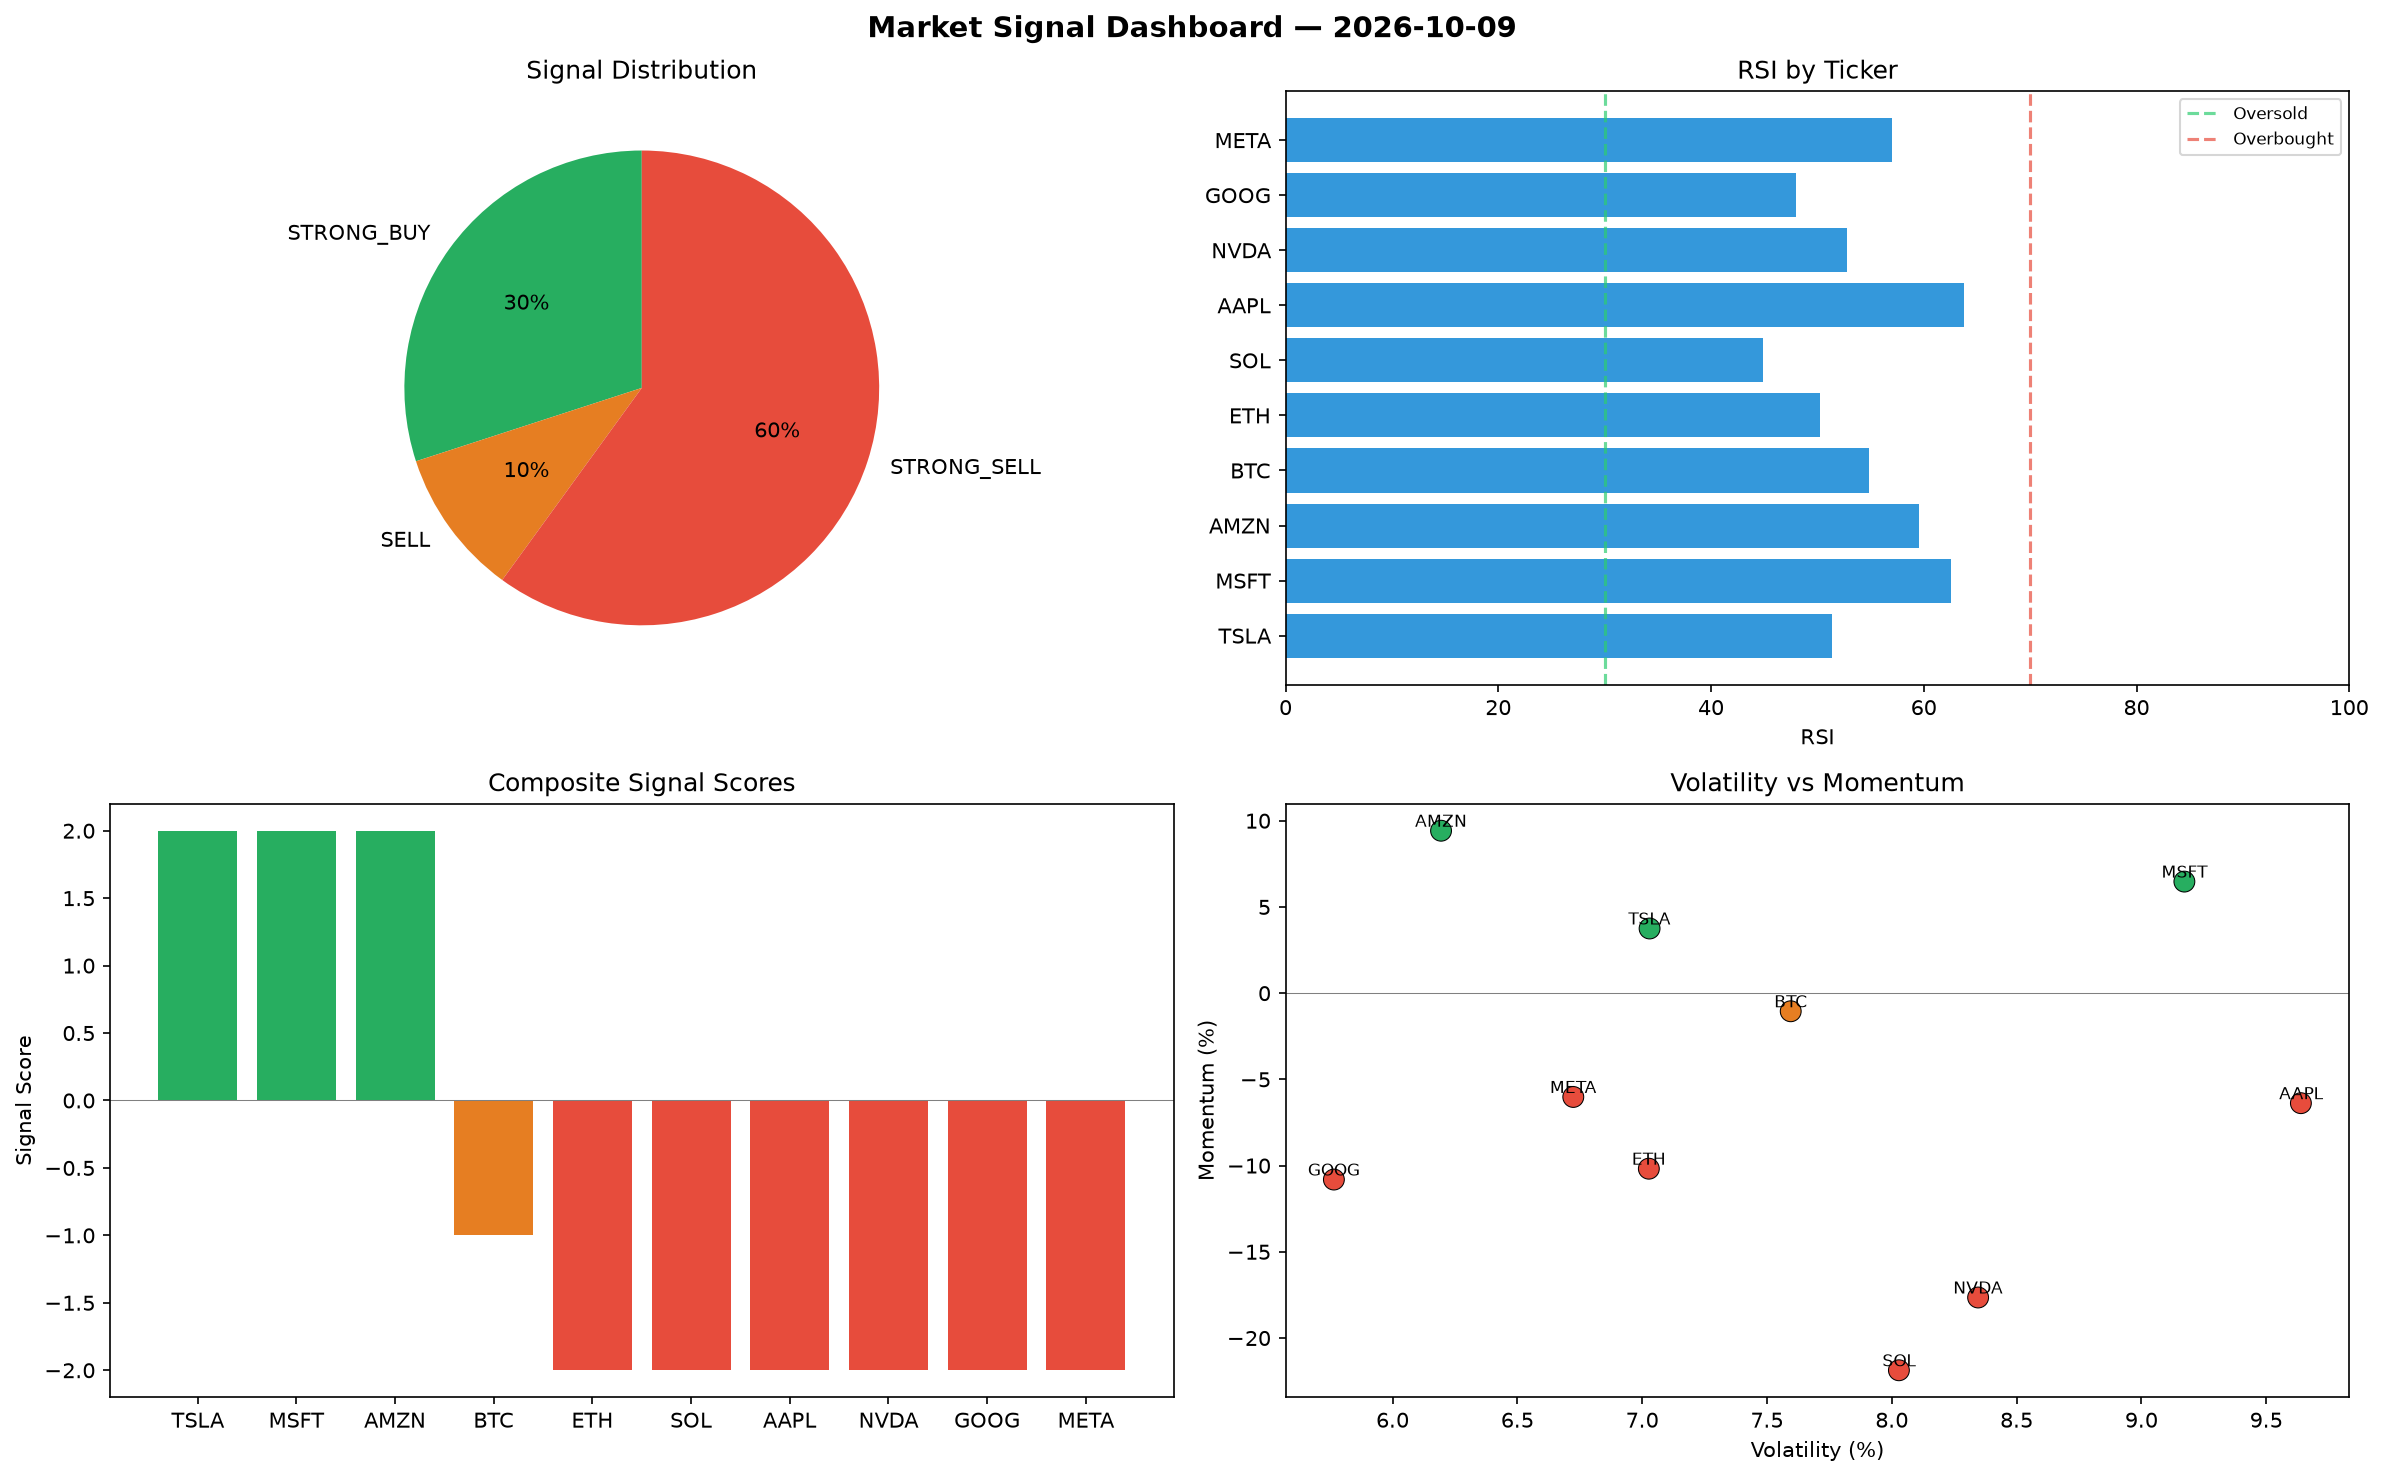
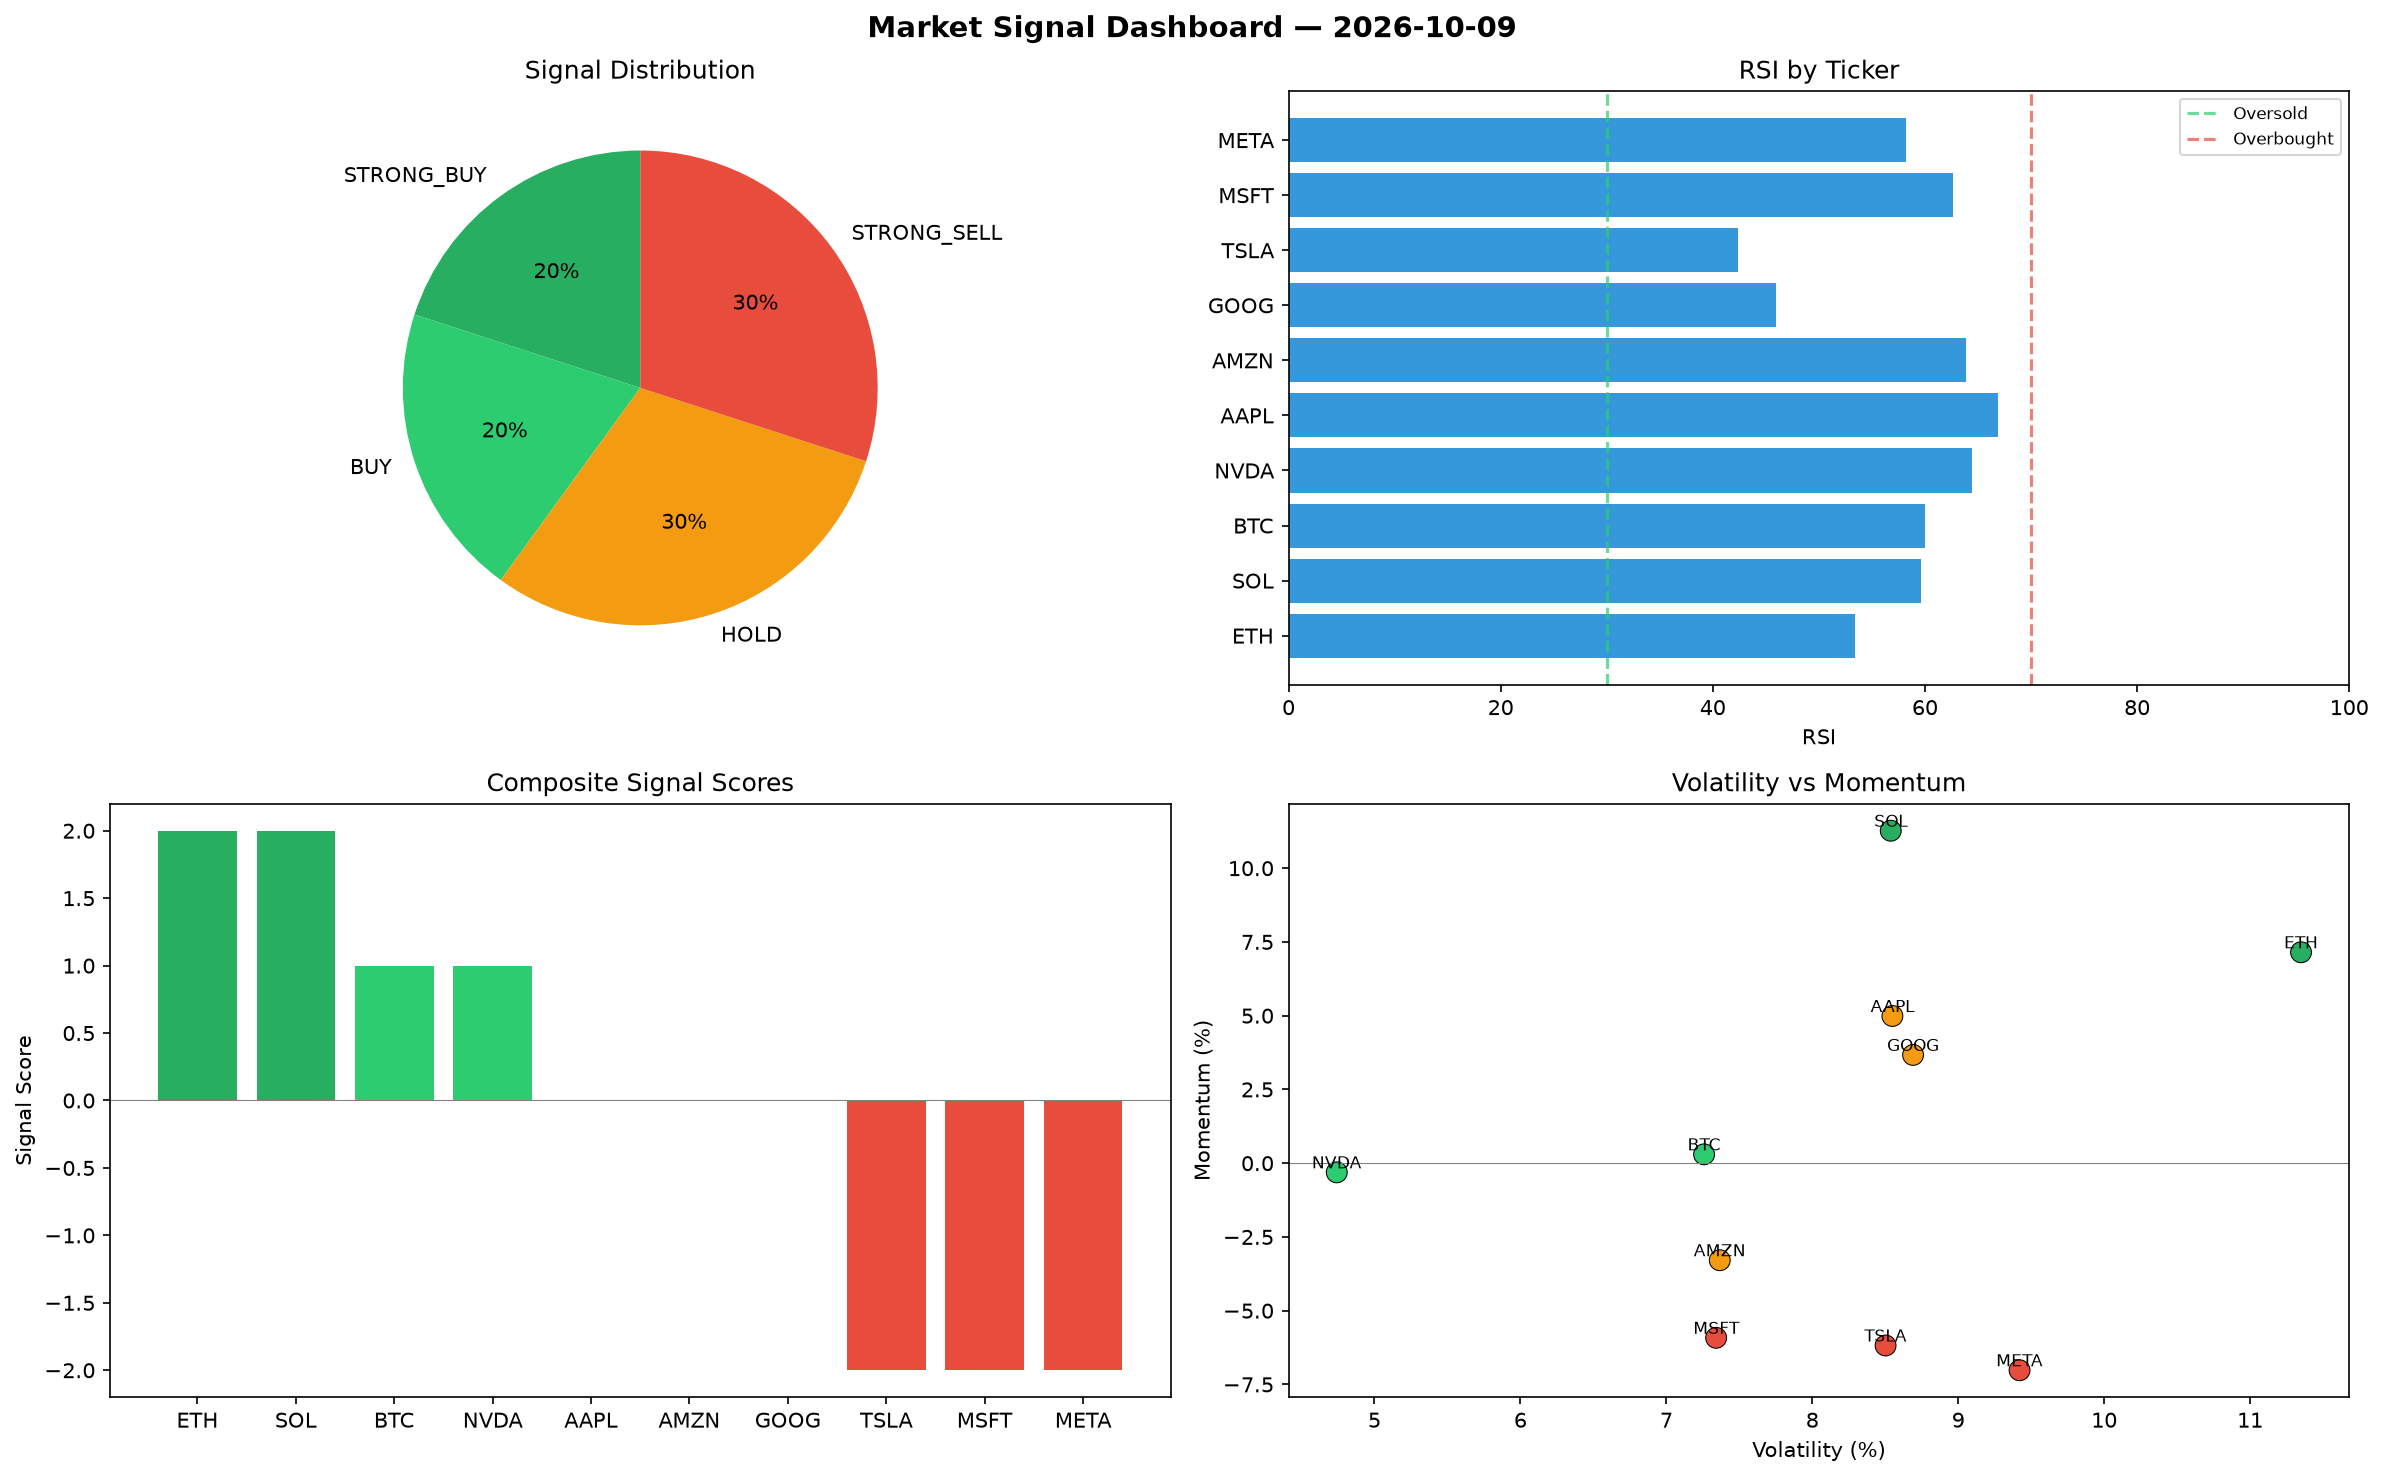
automated-bots: market signals 2026-10-09T09:25

diff --git a/logs/2026-10-09.md b/logs/2026-10-09.md
@@ -1,6 +1,6 @@
 # Market Signal Report — 2026-10-09
 
-**Run ID:** `502a1b0cd5` | **Buy:** 3 | **Sell:** 7 | **Hold:** 0
+**Run ID:** `90cf3e6feb` | **Buy:** 4 | **Sell:** 3 | **Hold:** 3
 
 ![Dashboard](2026-10-09_dashboard.png)
 
@@ -8,28 +8,28 @@
 
 | Ticker | Price | Signal | Score | RSI | Momentum | Confidence |
 |--------|-------|--------|-------|-----|----------|------------|
-| TSLA | $4992.26 | **STRONG_BUY** | 2 | 51.35 | 0.0375 | 0.5 |
-| MSFT | $234.47 | **STRONG_BUY** | 2 | 62.53 | 0.0647 | 0.5 |
-| AMZN | $3672.35 | **STRONG_BUY** | 2 | 59.58 | 0.0942 | 0.5 |
-| BTC | $4853.97 | **SELL** | -1 | 54.85 | -0.0105 | 0.25 |
-| ETH | $2887.19 | **STRONG_SELL** | -2 | 50.23 | -0.1018 | 0.5 |
-| SOL | $717.3 | **STRONG_SELL** | -2 | 44.85 | -0.2187 | 0.5 |
-| AAPL | $1678.38 | **STRONG_SELL** | -2 | 63.74 | -0.0638 | 0.5 |
-| NVDA | $1844.66 | **STRONG_SELL** | -2 | 52.75 | -0.1765 | 0.5 |
-| GOOG | $3834.9 | **STRONG_SELL** | -2 | 48.01 | -0.1081 | 0.5 |
-| META | $3789.35 | **STRONG_SELL** | -2 | 57.0 | -0.0602 | 0.5 |
+| ETH | $3027.46 | **STRONG_BUY** | 2 | 53.4 | 0.0715 | 0.5 |
+| SOL | $3834.53 | **STRONG_BUY** | 2 | 59.66 | 0.1127 | 0.5 |
+| BTC | $1955.61 | **BUY** | 1 | 60.05 | 0.003 | 0.25 |
+| NVDA | $1463.9 | **BUY** | 1 | 64.39 | -0.0031 | 0.25 |
+| AAPL | $895.4 | **HOLD** | 0 | 66.92 | 0.0499 | 0.0 |
+| AMZN | $2587.89 | **HOLD** | 0 | 63.88 | -0.0329 | 0.0 |
+| GOOG | $4849.01 | **HOLD** | 0 | 45.94 | 0.0367 | 0.0 |
+| TSLA | $3863.44 | **STRONG_SELL** | -2 | 42.39 | -0.0618 | 0.5 |
+| MSFT | $5037.58 | **STRONG_SELL** | -2 | 62.66 | -0.0592 | 0.5 |
+| META | $1820.81 | **STRONG_SELL** | -2 | 58.24 | -0.0702 | 0.5 |
 
 ## Delta vs Yesterday
 
 | Ticker | Today | Yesterday | Price Change | Signal Changed |
 |--------|-------|-----------|-------------|----------------|
-| TSLA | STRONG_BUY | HOLD | 📈 451.33% | ⚠ YES |
-| MSFT | STRONG_BUY | SELL | 📉 -92.13% | ⚠ YES |
-| AMZN | STRONG_BUY | SELL | 📈 42.18% | ⚠ YES |
-| BTC | SELL | STRONG_BUY | 📈 5.06% | ⚠ YES |
-| ETH | STRONG_SELL | STRONG_SELL | 📈 42.76% | — |
-| SOL | STRONG_SELL | STRONG_BUY | 📉 -72.66% | ⚠ YES |
-| AAPL | STRONG_SELL | STRONG_SELL | 📉 -61.31% | — |
-| NVDA | STRONG_SELL | STRONG_SELL | 📈 14621.95% | — |
-| GOOG | STRONG_SELL | STRONG_SELL | 📉 -17.25% | — |
-| META | STRONG_SELL | SELL | 📈 169.22% | ⚠ YES |
+| ETH | STRONG_BUY | STRONG_SELL | 📈 49.7% | ⚠ YES |
+| SOL | STRONG_BUY | STRONG_BUY | 📈 46.14% | — |
+| BTC | BUY | STRONG_BUY | 📉 -57.67% | ⚠ YES |
+| NVDA | BUY | STRONG_SELL | 📈 11583.16% | ⚠ YES |
+| AAPL | HOLD | STRONG_SELL | 📉 -79.36% | ⚠ YES |
+| AMZN | HOLD | SELL | 📈 0.19% | ⚠ YES |
+| GOOG | HOLD | STRONG_SELL | 📈 4.64% | ⚠ YES |
+| TSLA | STRONG_SELL | HOLD | 📈 326.66% | ⚠ YES |
+| MSFT | STRONG_SELL | SELL | 📈 69.15% | ⚠ YES |
+| META | STRONG_SELL | SELL | 📈 29.36% | ⚠ YES |
